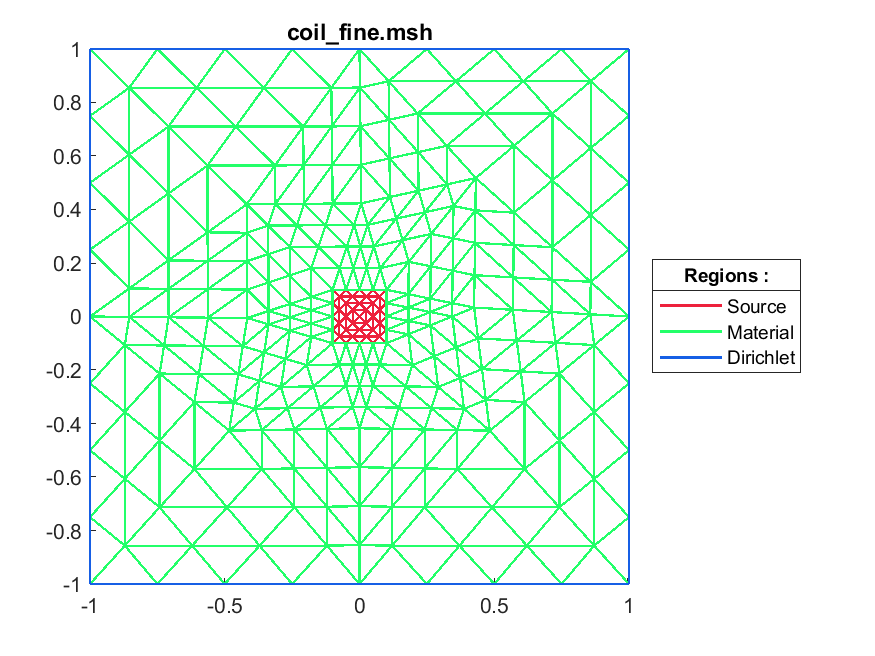
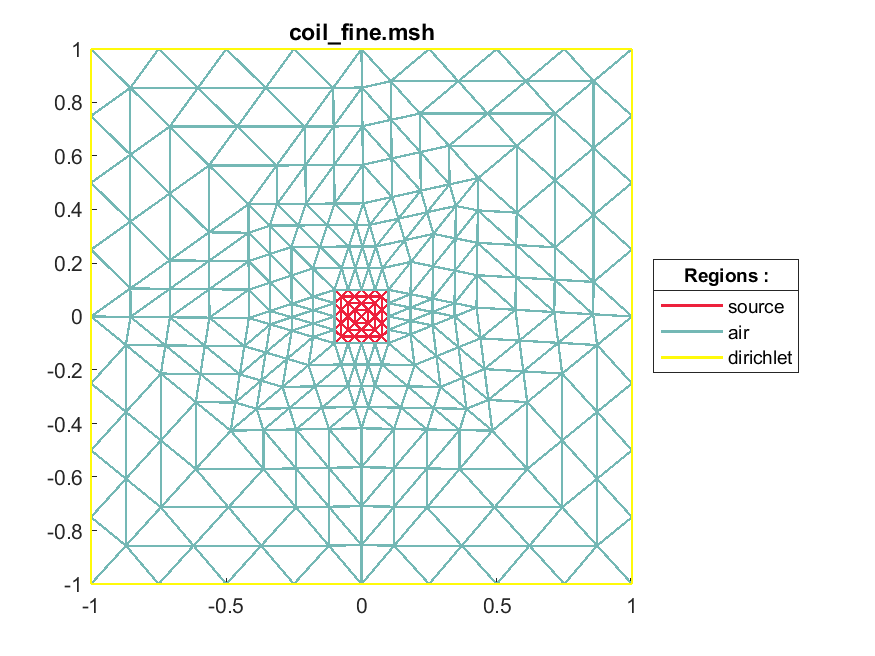
regions update 2
- region class update
- mesh disply rework

Changed region(s): [[0.0617, 0.0305, 0.9257, 0.9451], [0.2469, 0.061, 0.2777, 0.0915]]

diff --git a/matlab_scripts/main_functions/display_mesh.m b/matlab_scripts/main_functions/display_mesh.m
@@ -4,12 +4,8 @@ plt_pth = '.\plots\';
 if(nargin < 2 || isempty(do_print)), do_print = 0; end
 
 load(['.\results\', file_name])
-%tags = [regions.tag];
-lgnd = {'Dirichlet', 'Neumann', 'Source', 'Material'};
+lgnd = cell(n_regions, 1);
 legend_pick = gobjects(size(lgnd));
-%           [blue; yellow; red; green]
-color_def = [22, 95, 229; 255, 250, 10;
-             237, 33, 60; 35, 255, 105]/255;
 
 i_elem = 1;
 while(elements(i_elem).type ~= 2), i_elem = i_elem + 1; end
@@ -18,7 +14,6 @@ elem_offset = i_elem;
 n_lines = elem_offset-1;
 lines = [elements(1:n_lines).nodes];
 lines = reshape(lines, [2, n_lines])';
-color_mat_lines = zeros(n_lines, 3);
 arr = element_r(1:n_lines);
 [tag_order_lines, I] = sort(arr);
 lines = lines(I,:);
@@ -29,50 +24,39 @@ arr = element_r(i_elem:n_elements);
 triangles = [elements(i_elem:n_elements).nodes];
 triangles = reshape(triangles, [3, n_tri])';
 triangles = triangles(I,:);
-color_mat_tri = zeros(n_tri, 3);
 
-i_col = 1;
-while(i_col <= n_lines)
-    color_mat_lines(i_col, :) = color_def(tag_order_lines(i_col), :);
-    i_col = i_col + 1;
-end
-i_col = 1;
-while(i_col <= n_tri)
-    color_mat_tri(i_col, :) = color_def(tag_order(i_col), :);
-    i_col = i_col + 1;
-end
-
-lgnd_ind = [];
 f_color = [-1,0,0];
 i_lgnd = 1;
 figure, hold on
 for i_tri = 1:n_tri
+    colr = regions_c.get_color(tag_order(i_tri));
     hp = triplot(triangles(i_tri, :), [nodes.x], [nodes.y], ...
-        'color', color_mat_tri(i_tri,:),...
+        'color', colr, ...
         'linewidth', 1.1);
     
-    if( sum(f_color - color_mat_tri(i_tri,:)) ~= 0)
+    if( sum(f_color - colr) ~= 0)
         legend_pick(i_lgnd) = hp;
-        f_color = color_mat_tri(i_tri,:);
-        lgnd_ind(i_lgnd) = tag_order(i_tri);
+        f_color = colr;
+        lgnd(i_lgnd) = {regions_c.get_name(tag_order(i_tri))};
         i_lgnd = i_lgnd + 1;
     end
 end
 for i_lines = 1:n_lines
+    colr = regions_c.get_color(tag_order_lines(i_lines));
     hp = plot([nodes(lines(i_lines,1)).x, nodes(lines(i_lines,2)).x],...
               [nodes(lines(i_lines,1)).y, nodes(lines(i_lines,2)).y],...
-              'linewidth', 1.2, 'color', color_mat_lines(i_lines, :));
-    if( sum(f_color - color_mat_lines(i_lines,:)) ~= 0)
+              'linewidth', 1.2, 'color', colr);
+    if( sum(f_color - colr) ~= 0)
         legend_pick(i_lgnd) = hp;
-        f_color = color_mat_lines(i_lines,:);
-        lgnd_ind(i_lgnd) = tag_order_lines(i_lines); 
+        f_color = colr;
+        lgnd(i_lgnd) = {regions_c.get_name(tag_order_lines(i_lines))}; 
         i_lgnd = i_lgnd + 1;
     end
 end
 hold off
 title([file_name, '.msh'], 'interpreter', 'none')
-lgd = legend(legend_pick(1:i_lgnd-1), lgnd(lgnd_ind),...
-    'location', 'eastoutside');
+lgd = legend(legend_pick(1:i_lgnd-1), lgnd(1:i_lgnd-1),...
+    'location', 'eastoutside', 'interpreter', 'none');
 title(lgd, 'Regions : ')
 if(do_print)
     if(exist(plt_pth, 'dir') ~= 7)

diff --git a/matlab_scripts/classes/Regions.m b/matlab_scripts/classes/Regions.m
@@ -7,7 +7,7 @@ classdef Regions
         predef_keys = {'dirichlet', 'neumann', 'source'};
         predef_colors =  {[255, 250, 10], [22, 95, 229], [237, 33, 60]};
         colors = containers.Map('KeyType', 'char', 'ValueType', 'any');
-        
+        dir_codes = [];
     end
     
     methods
@@ -17,9 +17,26 @@ classdef Regions
             obj = fill_color_map(obj);
         end
         
+        function obj = get_dirichlet_codes(obj)
+            codes = [];
+            i_codes = 1;
+            keys_c = keys(obj.regs);
+            n_keys = length(keys_c);
+            for i_key = 1:n_keys
+                if(contains(keys_c{i_key}, 'dirichlet'))
+                    codes(i_codes) = obj.reg_map_inv(keys_c{i_key});
+                    i_codes = i_codes + 1;
+                end
+            end
+            
+            obj.dir_codes = codes;
+            
+        end
+        
         function obj = set_reg_map(obj, keys, vals)
             obj.reg_map = containers.Map(keys, vals);
             obj.reg_map_inv = containers.Map(vals, keys);
+            obj = get_dirichlet_codes(obj);
         end
         
         function code = get_reg_code(obj, region)
@@ -33,12 +50,12 @@ classdef Regions
                 clr_set = 0;
                 for i_pred = 1:3
                     if(contains(keys_c(i_key), obj.predef_keys(i_pred)))
-                        obj.colors(keys_c{i_key}) = obj.predef_colors{i_pred};
+                        obj.colors(keys_c{i_key}) = obj.predef_colors{i_pred}/255;
                         clr_set = 1;
                     end
                 end
                 if(~clr_set)
-                    obj.colors(keys_c{i_key}) = clr();
+                    obj.colors(keys_c{i_key}) = clr()/255;
                 end
             end
         end
@@ -53,6 +70,17 @@ classdef Regions
         
         function obj = add_region(obj, key, val)
             obj.regs(key) = val;
+        end
+        
+        function name = get_name(obj, key)
+            name = obj.reg_map(key);
+        end
+        
+        function is_dir = is_dirichlet(obj, key)
+            is_dir = 0;
+            if(contains(obj.reg_map(key), 'dirichlet'))
+                is_dir = 1;
+            end
         end
         
         function param = get_param(obj, key)

diff --git a/matlab_scripts/main_functions/parse_gmesh.m b/matlab_scripts/main_functions/parse_gmesh.m
@@ -59,8 +59,11 @@ reg_keys = [regions.tag];
 regions_c = Regions(regnames, regparams);
 regions_c = regions_c.set_reg_map(reg_keys, reg_vals);
 
-[regions, replace_tags] = separate_regions(regions);
-element_r = replace_region_tags(elements, n_elements, replace_tags);
+%[regions, replace_tags] = separate_regions(regions);
+%element_r = replace_region_tags(elements, n_elements, replace_tags);
+element_r = reshape([elements.tags], [2, n_elements])';
+element_r(:,2) = [];
+
 [nodes_prop, n_sys] = get_dirichlet_nodes(elements, element_r, n_nodes, regions_c);
 
 
@@ -70,7 +73,7 @@ if(exist('results', 'dir') ~= 7), mkdir('results'); end
 respth = './results/';
 save([respth, strrep(file_name, '.msh', '')], 'regions', 'nodes', 'elements',...
     'n_regions', 'n_nodes', 'n_elements', 'element_r', 'regions_c', ...
-    'regparams', 'replace_tags', 'nodes_prop', 'n_sys');
+    'regparams', 'nodes_prop', 'n_sys');
 
 file_name = strrep(file_name, '.msh', '');
 disp(['  Finished (Elapsed time : ', num2str(toc) ' s)'])

diff --git a/matlab_scripts/helper_functions/get_dirichlet_nodes.m b/matlab_scripts/helper_functions/get_dirichlet_nodes.m
@@ -1,9 +1,11 @@
 function [dir_nodes, n_sys] = get_dirichlet_nodes(elements, element_r, n_nodes, regions_c)
 dir_nodes = zeros(1,n_nodes);
-code = regions_c.get_reg_code('dirichlet');
-indices = find( element_r == code );
-for i_el=indices
-        dir_nodes([elements(i_el).nodes]) = code;
+codes = regions_c.dir_codes;
+for i=1:length(codes)
+    indices = find( element_r == codes(i) );
+    for i_el=indices
+        dir_nodes([elements(i_el).nodes]) = codes(i);
+    end
 end
 n_sys = sum(dir_nodes == 0);
 end
